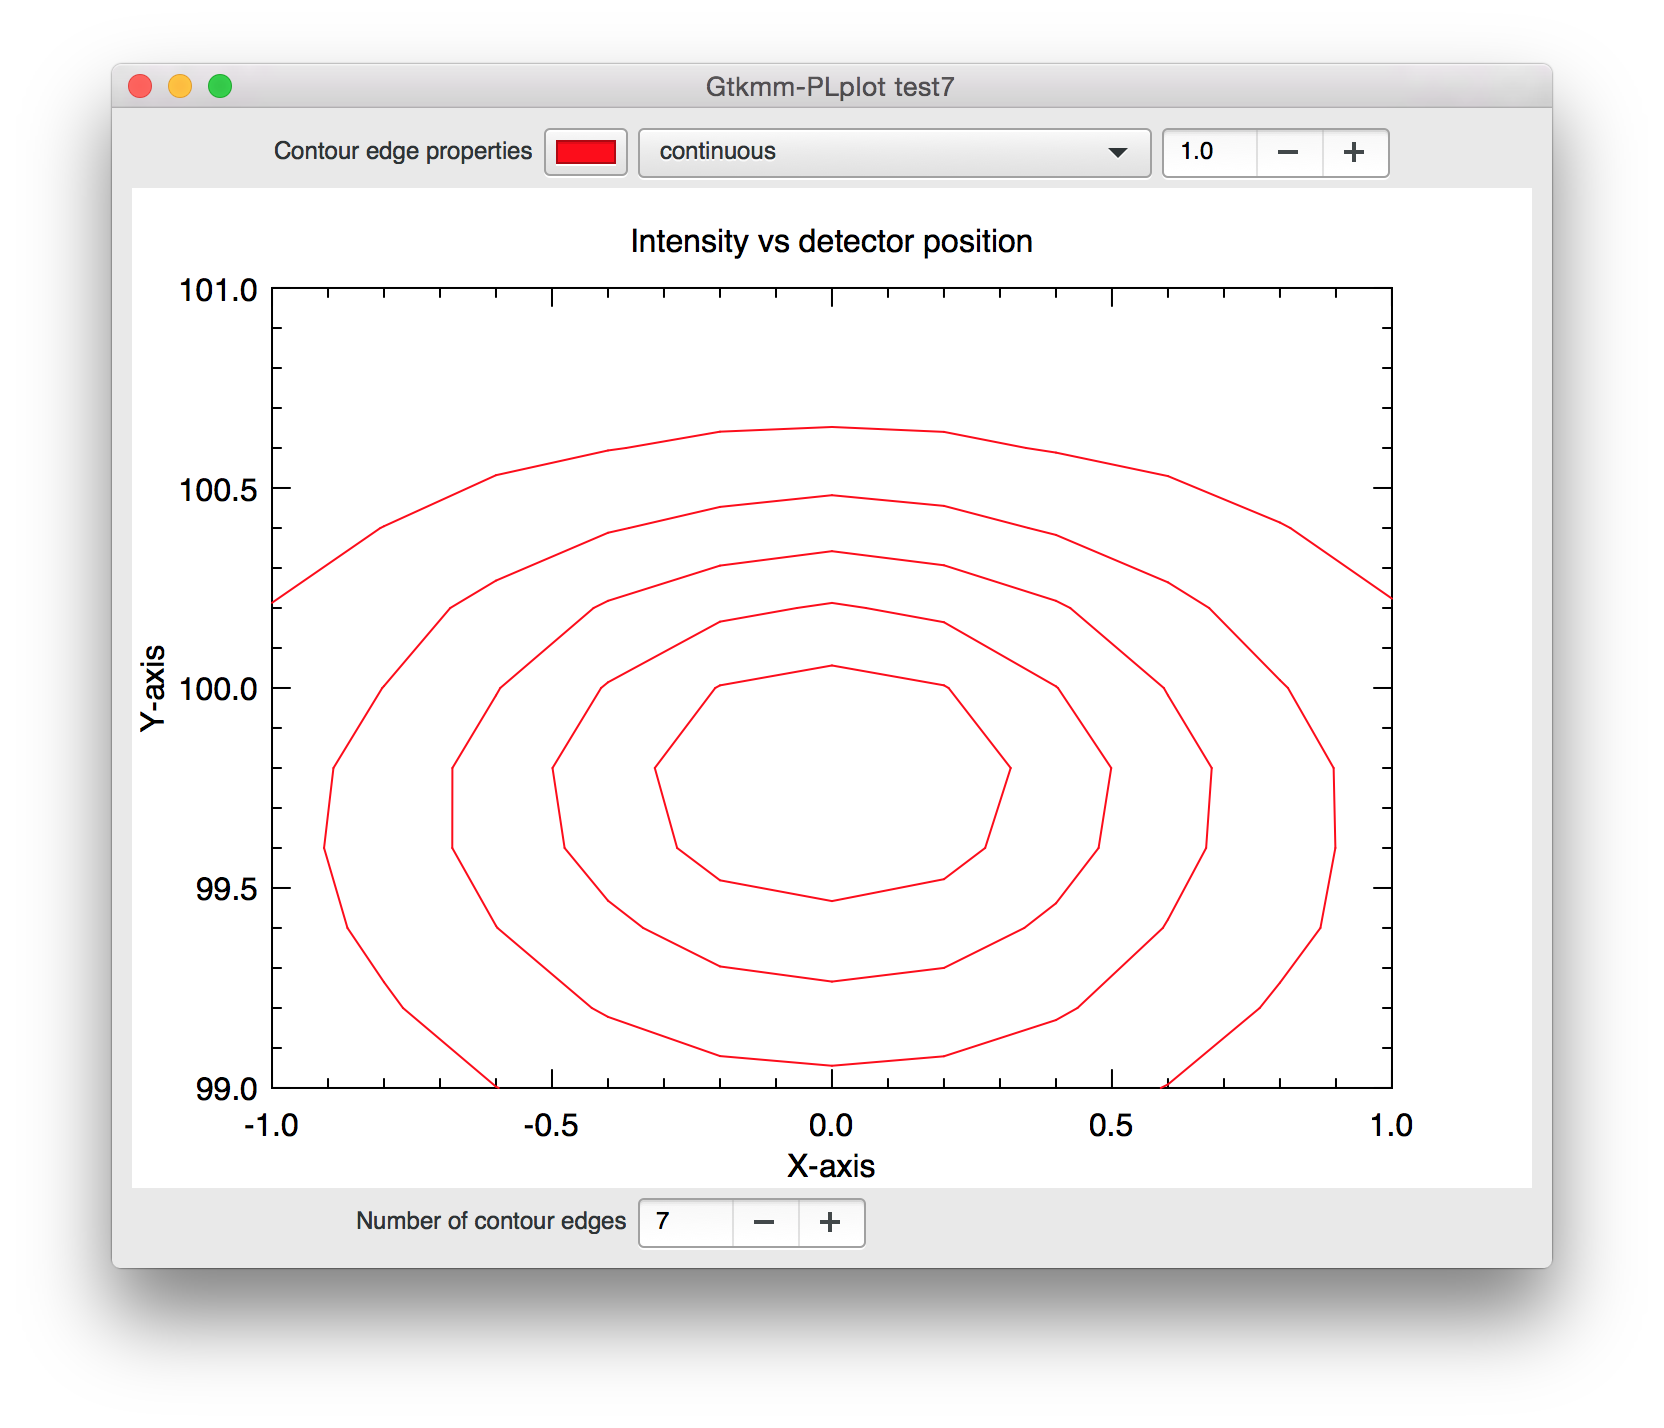
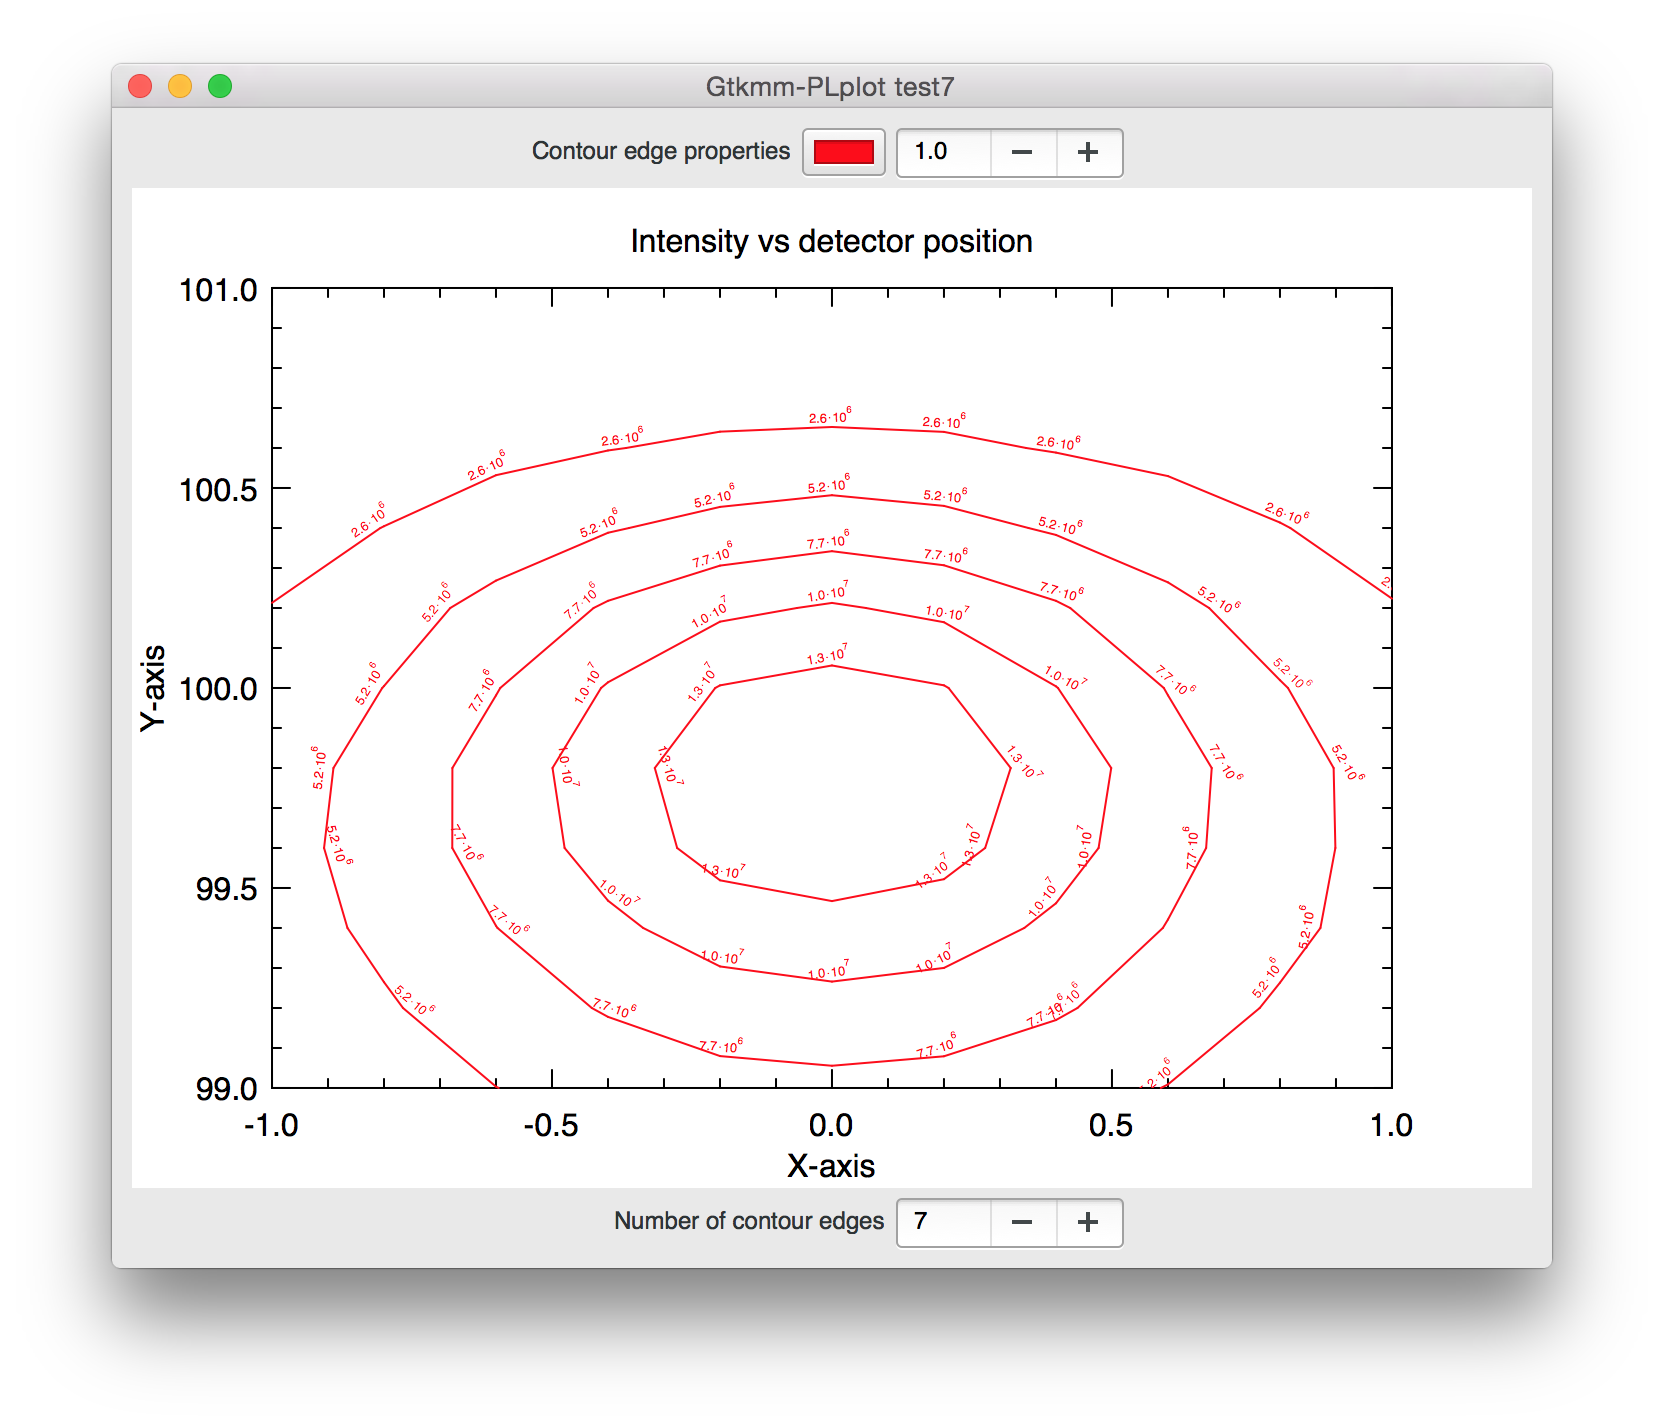
PlotContour and PlotContourShades: contour labels added
Now PlotContour is no longer totally useless...

Changed region(s): [[0.1562, 0.0924, 0.7188, 0.1232], [0.2188, 0.8319, 0.5625, 0.8627]]

diff --git a/gtkmm-plplot/plotcontour.h b/gtkmm-plplot/plotcontour.h
@@ -30,8 +30,8 @@ namespace Gtk {
      *
      *  A class for conventional contour plots. Construction requires a
      *  single PlotDataSurface dataset, and no datasets may be added afterwards.
-     *  This class is not very useful since the contour edges don't show the value that corresponds to them.
-     *  However, PlotContourShades adds support for colorbars whose colors match the regions between two contour edges, giving quantitative information.
+     *  For more beautiful contour plot with shaded regions, check out PlotContourShades.
+     *  PlotContour features several properties that determine the appearance of the contour.
      *  Important is that whenever a property is changed, \c signal_changed() is emitted, which will eventually
      *  be picked up by the \c canvas that will hold the plot.
      *  For more information, the reader is referred to example \ref example7.
@@ -43,11 +43,12 @@ namespace Gtk {
     protected:
       unsigned int nlevels; ///< Number of contour levels to draw
       Gdk::RGBA edge_color; ///< Defines pen color used for contours defining edges.
-      PLFLT edge_width; ///< Defines line width used for contours defining edges.
+      double edge_width; ///< Defines line width used for contours defining edges.
+      bool showing_labels; ///< \c true will draw the contour labels, \c false hides them
       //TODO: add BoxStyle???
       PLFLT zmin; ///< Minimum of \c z, used to determine the contour edges
       PLFLT zmax; ///< Maximum of \c z, used to determine the contour edges
-      std::vector<PLFLT> clevels; ///< Vector containing the data levels corresponding to the edges of each region that will be plotted. To work properly the levels should be monotonic.
+      std::vector<double> clevels; ///< Vector containing the data levels corresponding to the edges of each region that will be plotted. To work properly the levels should be monotonic.
 
       virtual void plot_data_modified() override; ///< a method that will update the \c _range variables when datasets are added, modified or removed.
 
@@ -166,6 +167,21 @@ namespace Gtk {
        * \exception Gtk::PLplot::Exception
        */
       unsigned int get_nlevels();
+
+      /** Show the contour labels
+       *
+       */
+      void show_labels();
+
+      /** Hides the contour labels
+       *
+       */
+      void hide_labels();
+
+      /** Returns whether or not the contour labels are currently showing
+       *
+       */
+      bool is_showing_labels() const;
 
       /** Method to draw the plot with all of its datasets
        *

diff --git a/tests/test8.cpp b/tests/test8.cpp
@@ -41,6 +41,9 @@ namespace Test8 {
     Gtk::Label show_edges_label;
     Gtk::Switch show_edges_switch;
 
+    Gtk::Label show_labels_label;
+    Gtk::Switch show_labels_switch;
+
     Gtk::Label edge_color_label;
     Gtk::ColorButton edge_color;
 
@@ -69,6 +72,7 @@ namespace Test8 {
   public:
     Window() :
       show_edges_label("Show edges"),
+      show_labels_label("Show contour labels"),
       edge_color_label("Contour edge color"),
       edge_color(Gdk::RGBA("Red")),
       edge_width_label("Contour edge width"),
@@ -178,17 +182,41 @@ namespace Test8 {
         if (show_edges_switch.get_active()) {
           edge_color.set_sensitive();
           edge_width_spin.set_sensitive();
+          show_labels_switch.set_sensitive();
           plot_ref->show_edges();
         }
         else {
           edge_color.set_sensitive(false);
           edge_width_spin.set_sensitive(false);
+          show_labels_switch.set_sensitive(false);
           plot_ref->hide_edges();
         }
       });
 
       grid.attach(show_edges_label, 0, row_counter, 1, 1);
       grid.attach(show_edges_switch, 1, row_counter++, 1, 1);
+
+      // show contour labels
+      show_labels_label.set_hexpand(true);
+      show_labels_label.set_vexpand(false);
+      show_labels_label.set_valign(Gtk::ALIGN_CENTER);
+      show_labels_label.set_halign(Gtk::ALIGN_END);
+      show_labels_switch.set_hexpand(true);
+      show_labels_switch.set_vexpand(false);
+      show_labels_switch.set_halign(Gtk::ALIGN_START);
+      show_labels_switch.set_valign(Gtk::ALIGN_CENTER);
+      show_labels_switch.set_active(plot_ref->is_showing_labels());
+      show_labels_switch.property_active().signal_changed().connect([this, plot_ref](){
+        if (show_labels_switch.get_active()) {
+          plot_ref->show_labels();
+        }
+        else {
+          plot_ref->hide_labels();
+        }
+      });
+
+      grid.attach(show_labels_label, 0, row_counter, 1, 1);
+      grid.attach(show_labels_switch, 1, row_counter++, 1, 1);
 
       //color button
       edge_color_label.set_hexpand(true);

diff --git a/gtkmm-plplot/plotcontourshades.cpp b/gtkmm-plplot/plotcontourshades.cpp
@@ -50,11 +50,11 @@ PlotContourShades::PlotContourShades(
   _plot_offset_horizontal_norm,
   _plot_offset_vertical_norm),
   showing_colorbar(true),
+  showing_edges(true),
   colorbar_title("Magnitude"),
   colormap_palette(_colormap_palette),
   area_fill_pattern(SOLID),
-  fill_width(PLOTDATA_DEFAULT_LINE_WIDTH),
-  showing_edges(true) {}
+  fill_width(PLOTDATA_DEFAULT_LINE_WIDTH) {}
 
 PlotContourShades::PlotContourShades(
   const PlotDataSurface &_data,
@@ -83,11 +83,16 @@ PlotContourShades::PlotContourShades(
 PlotContourShades::PlotContourShades(const PlotContourShades &_source) :
   PlotContour(_source),
   showing_colorbar(_source.showing_colorbar),
+  showing_edges(_source.showing_edges),
   colorbar_title(_source.colorbar_title),
   colormap_palette(_source.colormap_palette),
   area_fill_pattern(_source.area_fill_pattern),
-  fill_width(_source.fill_width),
-  showing_edges(_source.showing_edges) {}
+  fill_width(_source.fill_width) {
+		if (_source.is_showing_labels())
+			show_labels();
+		else
+			hide_labels();
+	}
 
 PlotContourShades::~PlotContourShades() {}
 
@@ -210,6 +215,9 @@ void PlotContourShades::draw_plot(const Cairo::RefPtr<Cairo::Context> &cr, const
 		cont_color = 0;
 		cont_width = 0.0;
 	}
+
+	//this will only work if showing_edges is true!
+	pls->setcontlabelparam(0.01, 0.4, 0.1, is_showing_labels());
 
 	pls->shades(z, x.size(), y.size(), NULL, x.front(), x.back(), y.front(), y.back(),
               &clevels[0], nlevels, fill_width,

diff --git a/gtkmm-plplot/plotcontour.cpp b/gtkmm-plplot/plotcontour.cpp
@@ -47,6 +47,7 @@ PlotContour::PlotContour(
   nlevels(_nlevels),
   edge_color(_edge_color),
   edge_width(_edge_width),
+	showing_labels(true),
   clevels(_nlevels) {
   //ensure edge_width is strictly positive
   if (edge_width <= 0.0) {
@@ -88,6 +89,8 @@ PlotContour::PlotContour(const PlotContour &_source) :
   _source.plot_height_norm,
   _source.plot_offset_horizontal_norm,
   _source.plot_offset_vertical_norm) {
+
+	showing_labels = _source.showing_labels;
 
   for (auto &iter : _source.plot_data) {
     add_data(*iter);
@@ -203,6 +206,24 @@ unsigned int PlotContour::get_nlevels() {
   return nlevels;
 }
 
+void PlotContour::show_labels() {
+	if (showing_labels)
+		return;
+	showing_labels = true;
+	_signal_changed.emit();
+}
+
+void PlotContour::hide_labels() {
+	if (!showing_labels)
+		return;
+	showing_labels = false;
+	_signal_changed.emit();
+}
+
+bool PlotContour::is_showing_labels() const {
+	return showing_labels;
+}
+
 void PlotContour::draw_plot(const Cairo::RefPtr<Cairo::Context> &cr, const int width, const int height) {
   if (!shown)
     return;
@@ -240,6 +261,8 @@ void PlotContour::draw_plot(const Cairo::RefPtr<Cairo::Context> &cr, const int w
   cgrid.nx = x.size();
   cgrid.ny = y.size();
   PLFLT **z = data->get_array2d_z();
+
+	pls->setcontlabelparam(0.01, 0.4, 0.1, is_showing_labels());
 
   pls->cont(z, x.size(), y.size(), 1, x.size(), 1, y.size(), &clevels[0], nlevels, PLCALLBACK::tr1, (void *) &cgrid);
 

diff --git a/gtkmm-plplot/plotcontourshades.h b/gtkmm-plplot/plotcontourshades.h
@@ -37,11 +37,11 @@ namespace Gtk {
      class PlotContourShades : public PlotContour {
      private:
        bool showing_colorbar; ///< \c true will draw a colorbar, \c false will not.
+       bool showing_edges; ///< \c true will draw contour lines at the edges, \c false will not.
        Glib::ustring colorbar_title; ///< the title of the colorbar
        ColormapPalette colormap_palette; ///< The colormap that will be used to render the contourplot shades.
        AreaFillPattern area_fill_pattern; ///< The pattern that will be used to draw the shaded regions.
        double fill_width; ///< Defines line width used by the fill pattern.
-       bool showing_edges; ///< \c true will draw contour lines at the edges, \c false will not.
        PlotContourShades() = delete; ///< no default constructor
        PlotContourShades &operator=(const PlotContourShades &) = delete; ///< no copy constructor
      protected:
